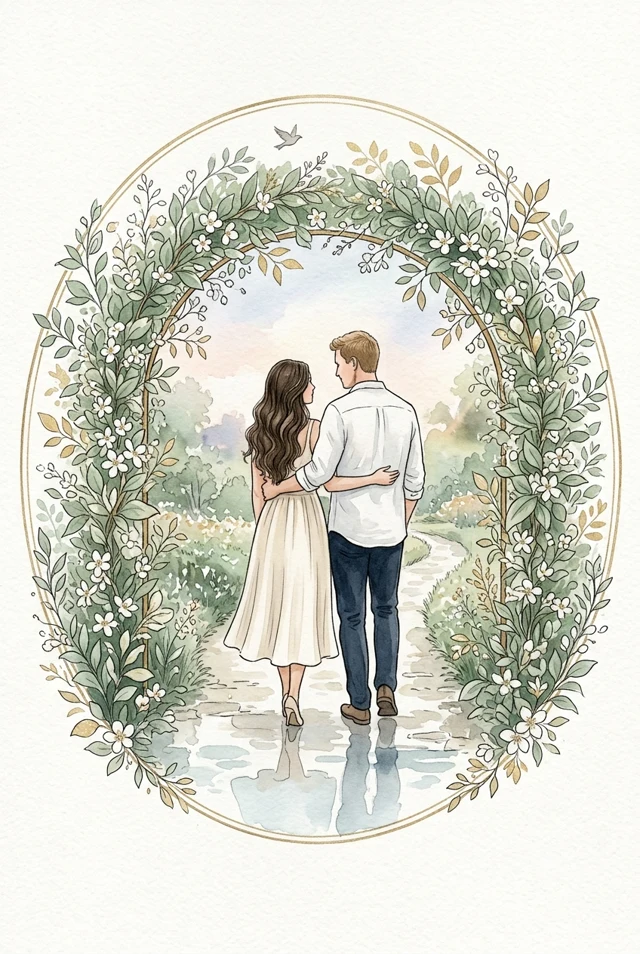
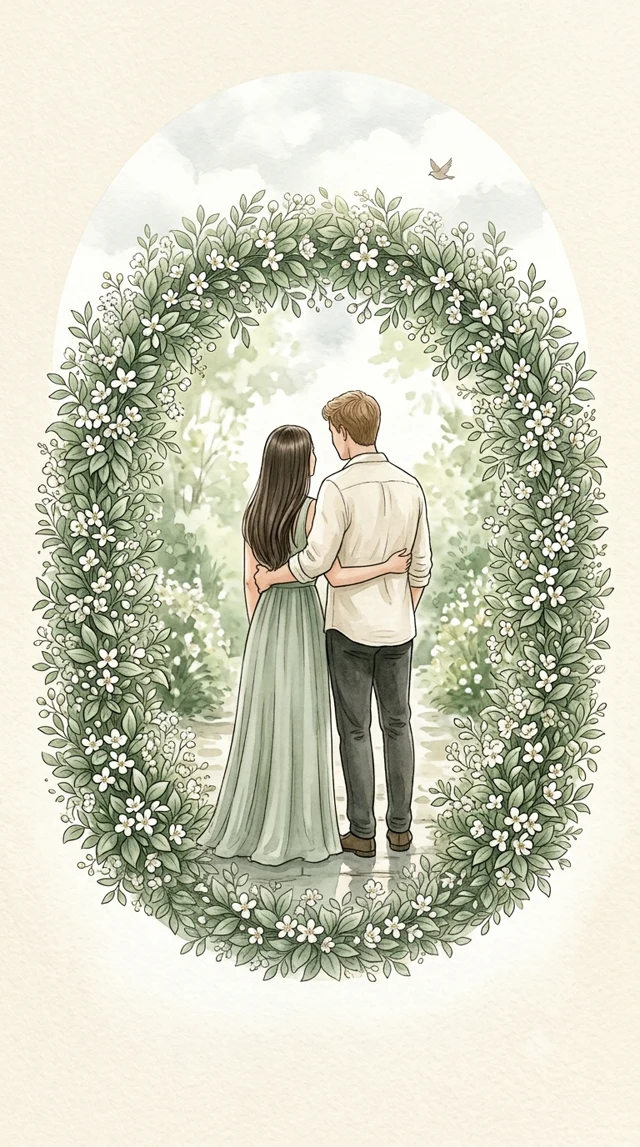
Fix first-scroll-blocked bug and update hero illustration
- Removed overscroll-behavior-y:none on html/body — it was likely
  swallowing the very first scroll gesture at the page boundary on
  some mobile browsers, matching the reported "first scroll does
  nothing, then it works" behavior
- Swapped in the latest illustration: straight hair, fully closed
  dense floral wreath, cream background matching the site

diff --git a/app/globals.css b/app/globals.css
@@ -22,11 +22,6 @@
   --font-cursive: var(--font-great-vibes);
 }
 
-html,
-body {
-  overscroll-behavior-y: none;
-}
-
 body {
   background: var(--color-cream);
   color: var(--color-ink);
